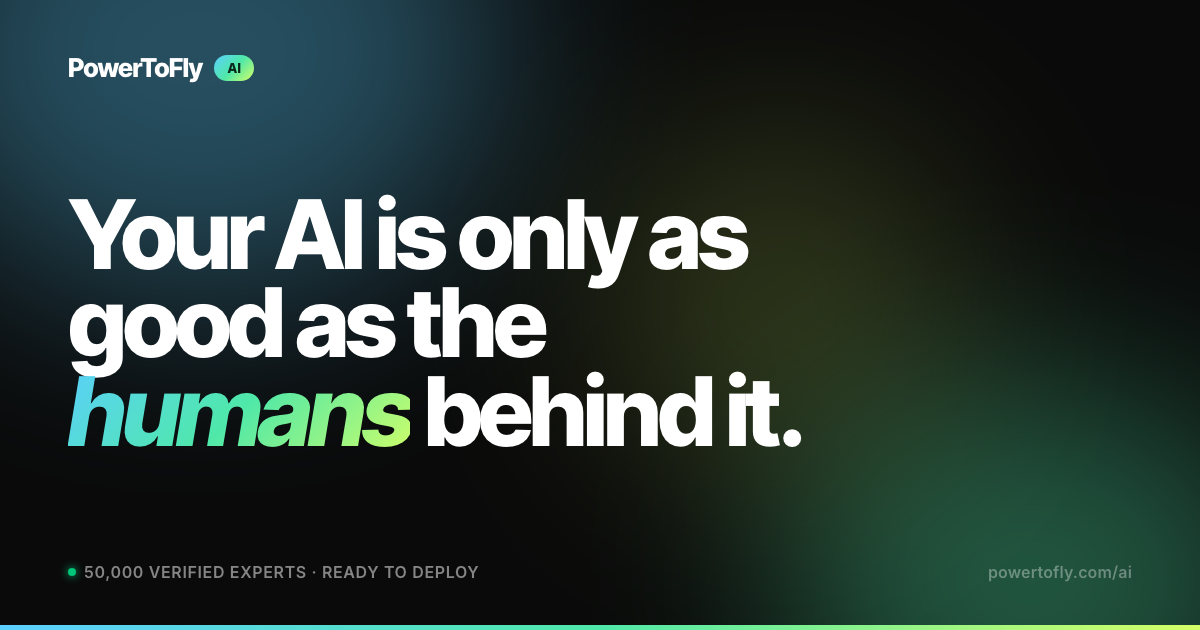
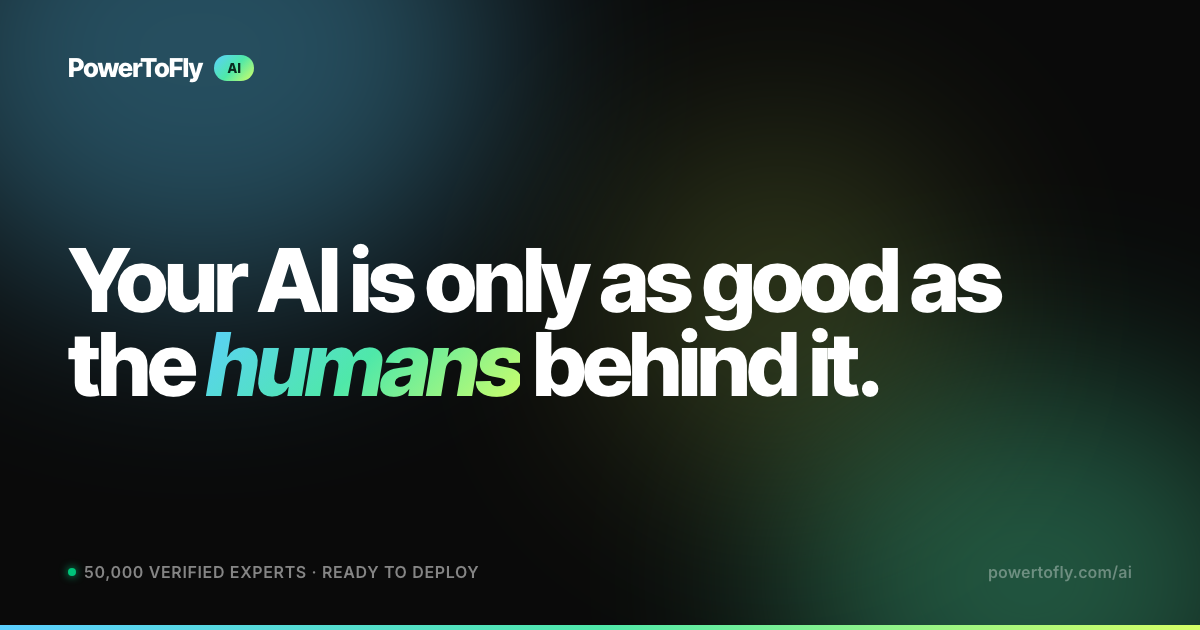
og-image: clean 2-line headline break, 88px font

Changed region(s): [[0.0308, 0.3016, 0.8325, 0.7238]]

diff --git a/og-image.html b/og-image.html
@@ -79,14 +79,15 @@ body {
   position: relative; z-index: 2;
   font-family: 'Inter Tight', sans-serif;
   font-weight: 800;
-  font-size: 96px;
-  line-height: 0.92;
+  font-size: 88px;
+  line-height: 0.95;
   letter-spacing: -0.045em;
   color: #ffffff;
   flex: 1;
   display: flex;
   align-items: center;
 }
+.headline .line1 { white-space: nowrap; }
 .headline em {
   font-style: italic;
   background: linear-gradient(135deg, #5BCFFF 0%, #4FE8A9 50%, #D5FF66 100%);
@@ -148,7 +149,7 @@ body {
 </div>
 
 <div class="headline">
-  <div>Your AI is only as<br>good as the<br><em>humans</em> behind it.</div>
+  <div><span class="line1">Your AI is only as good as</span><br>the <em>humans</em> behind it.</div>
 </div>
 
 <div class="bottom">